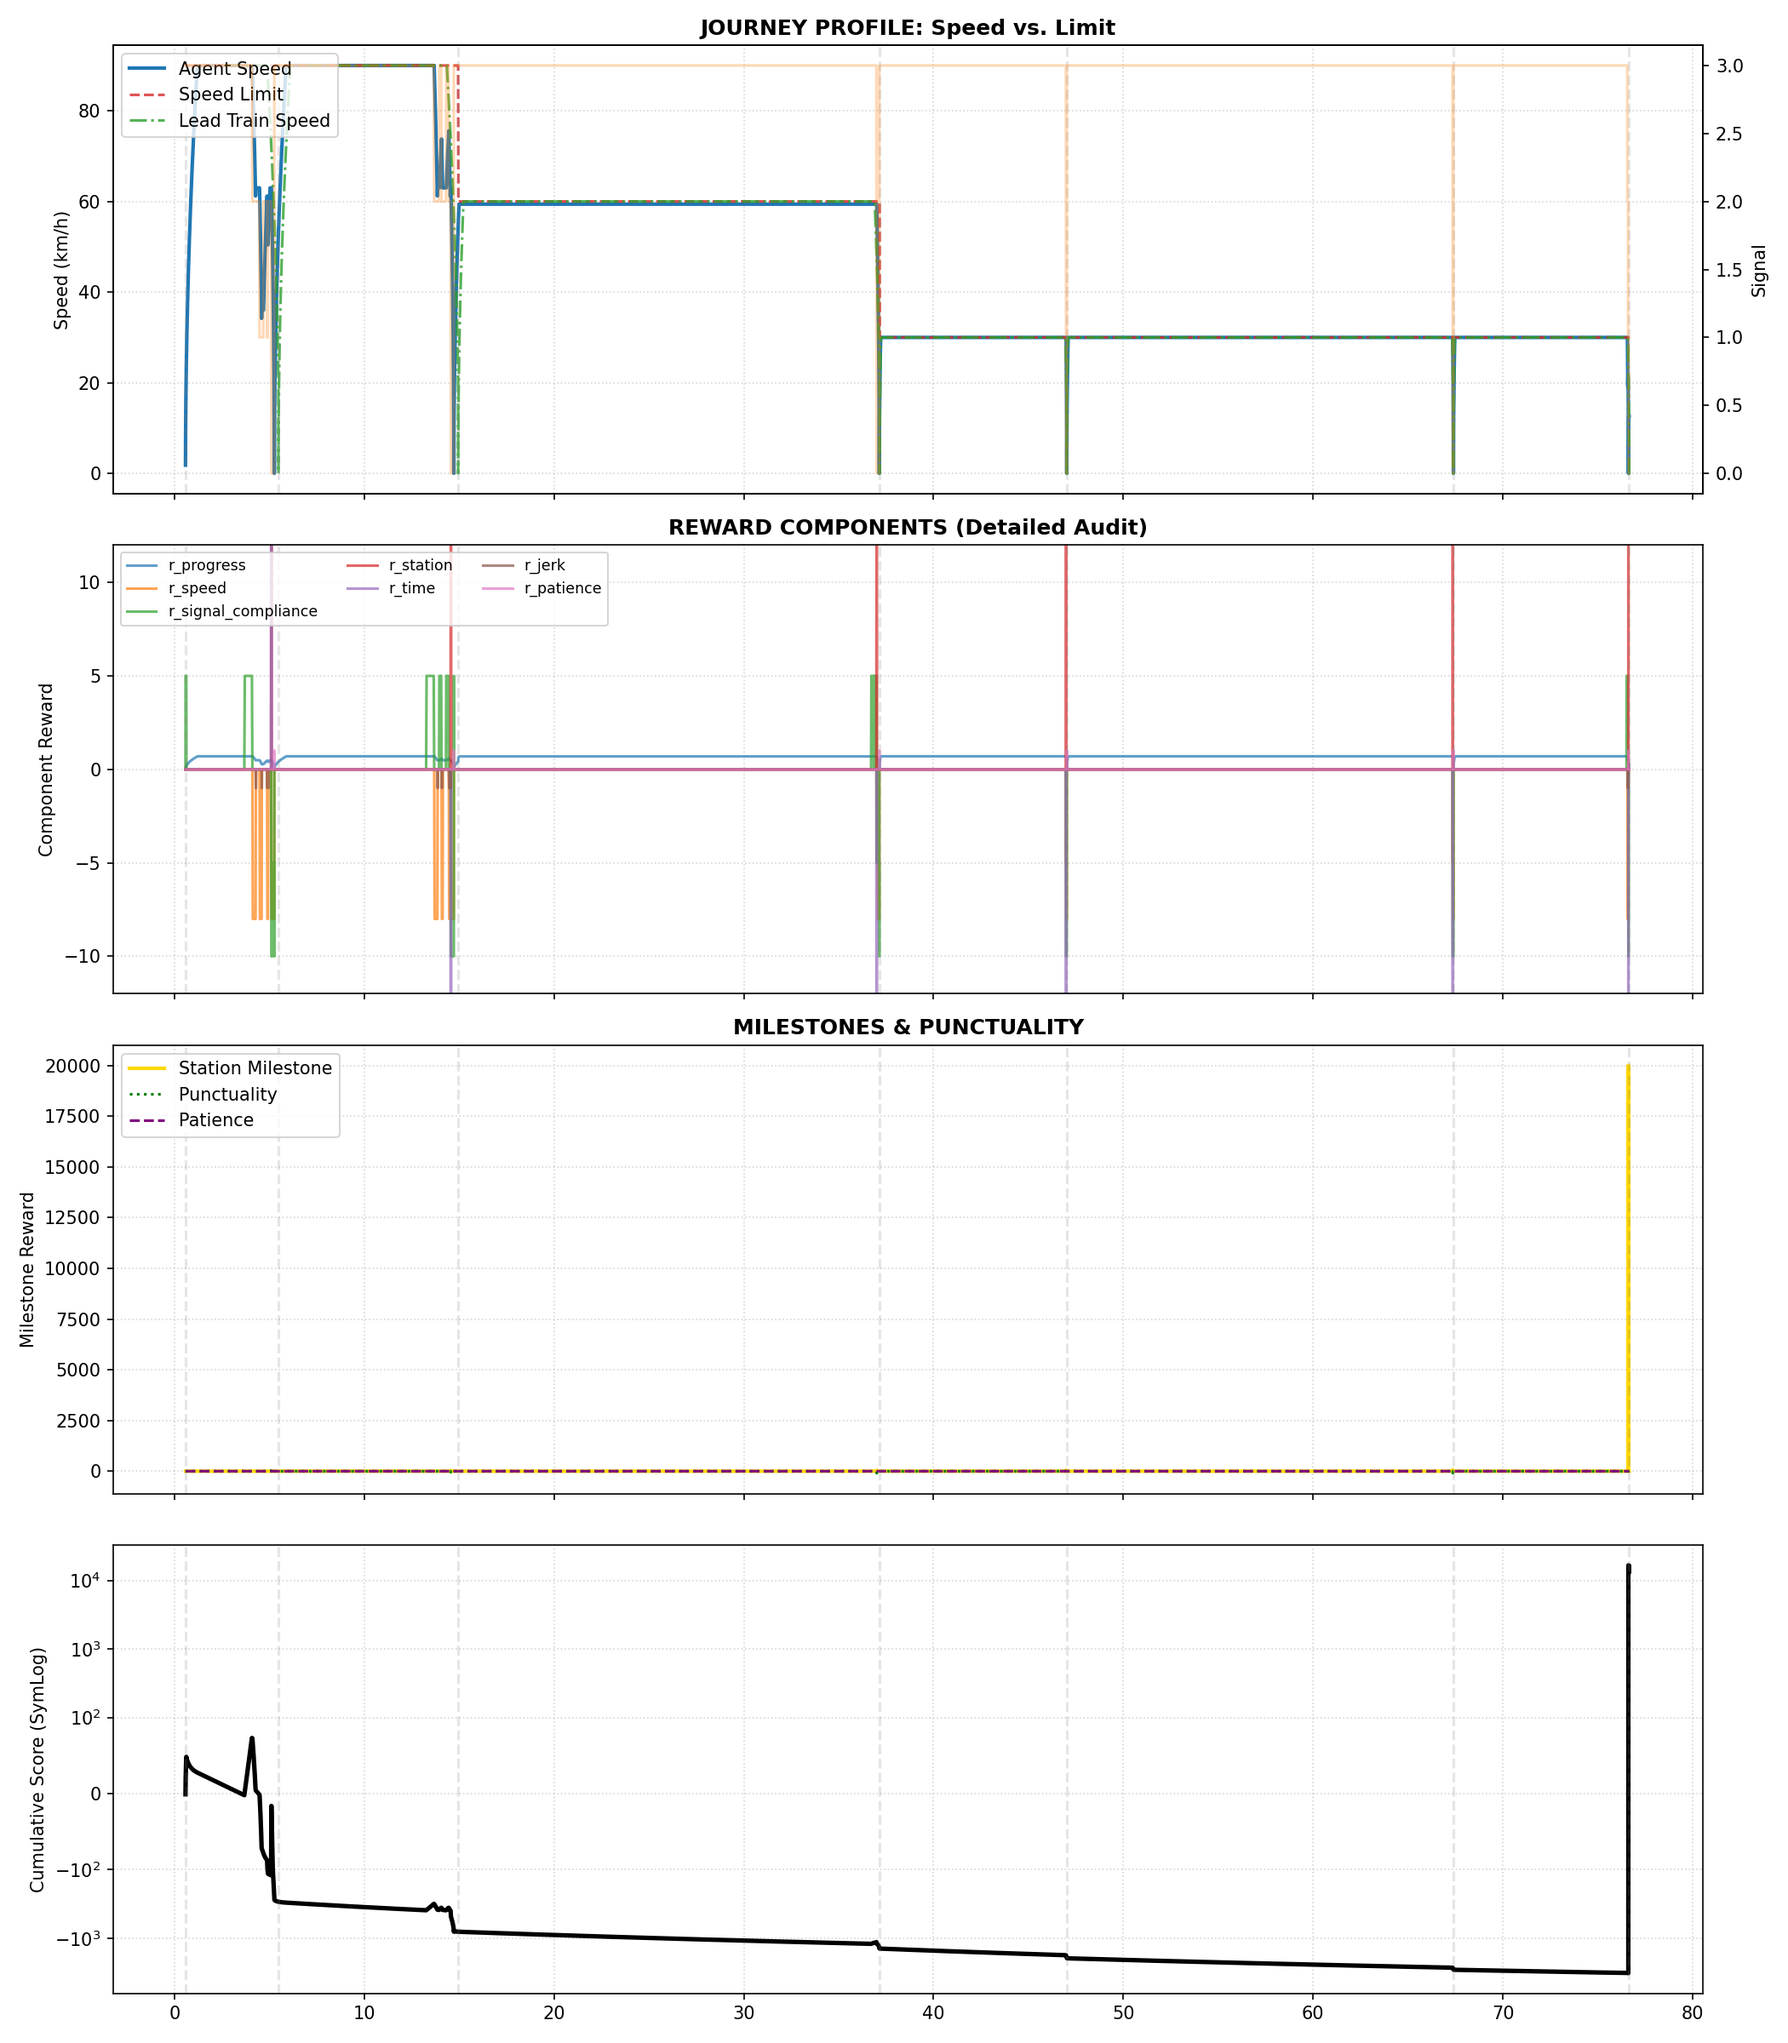
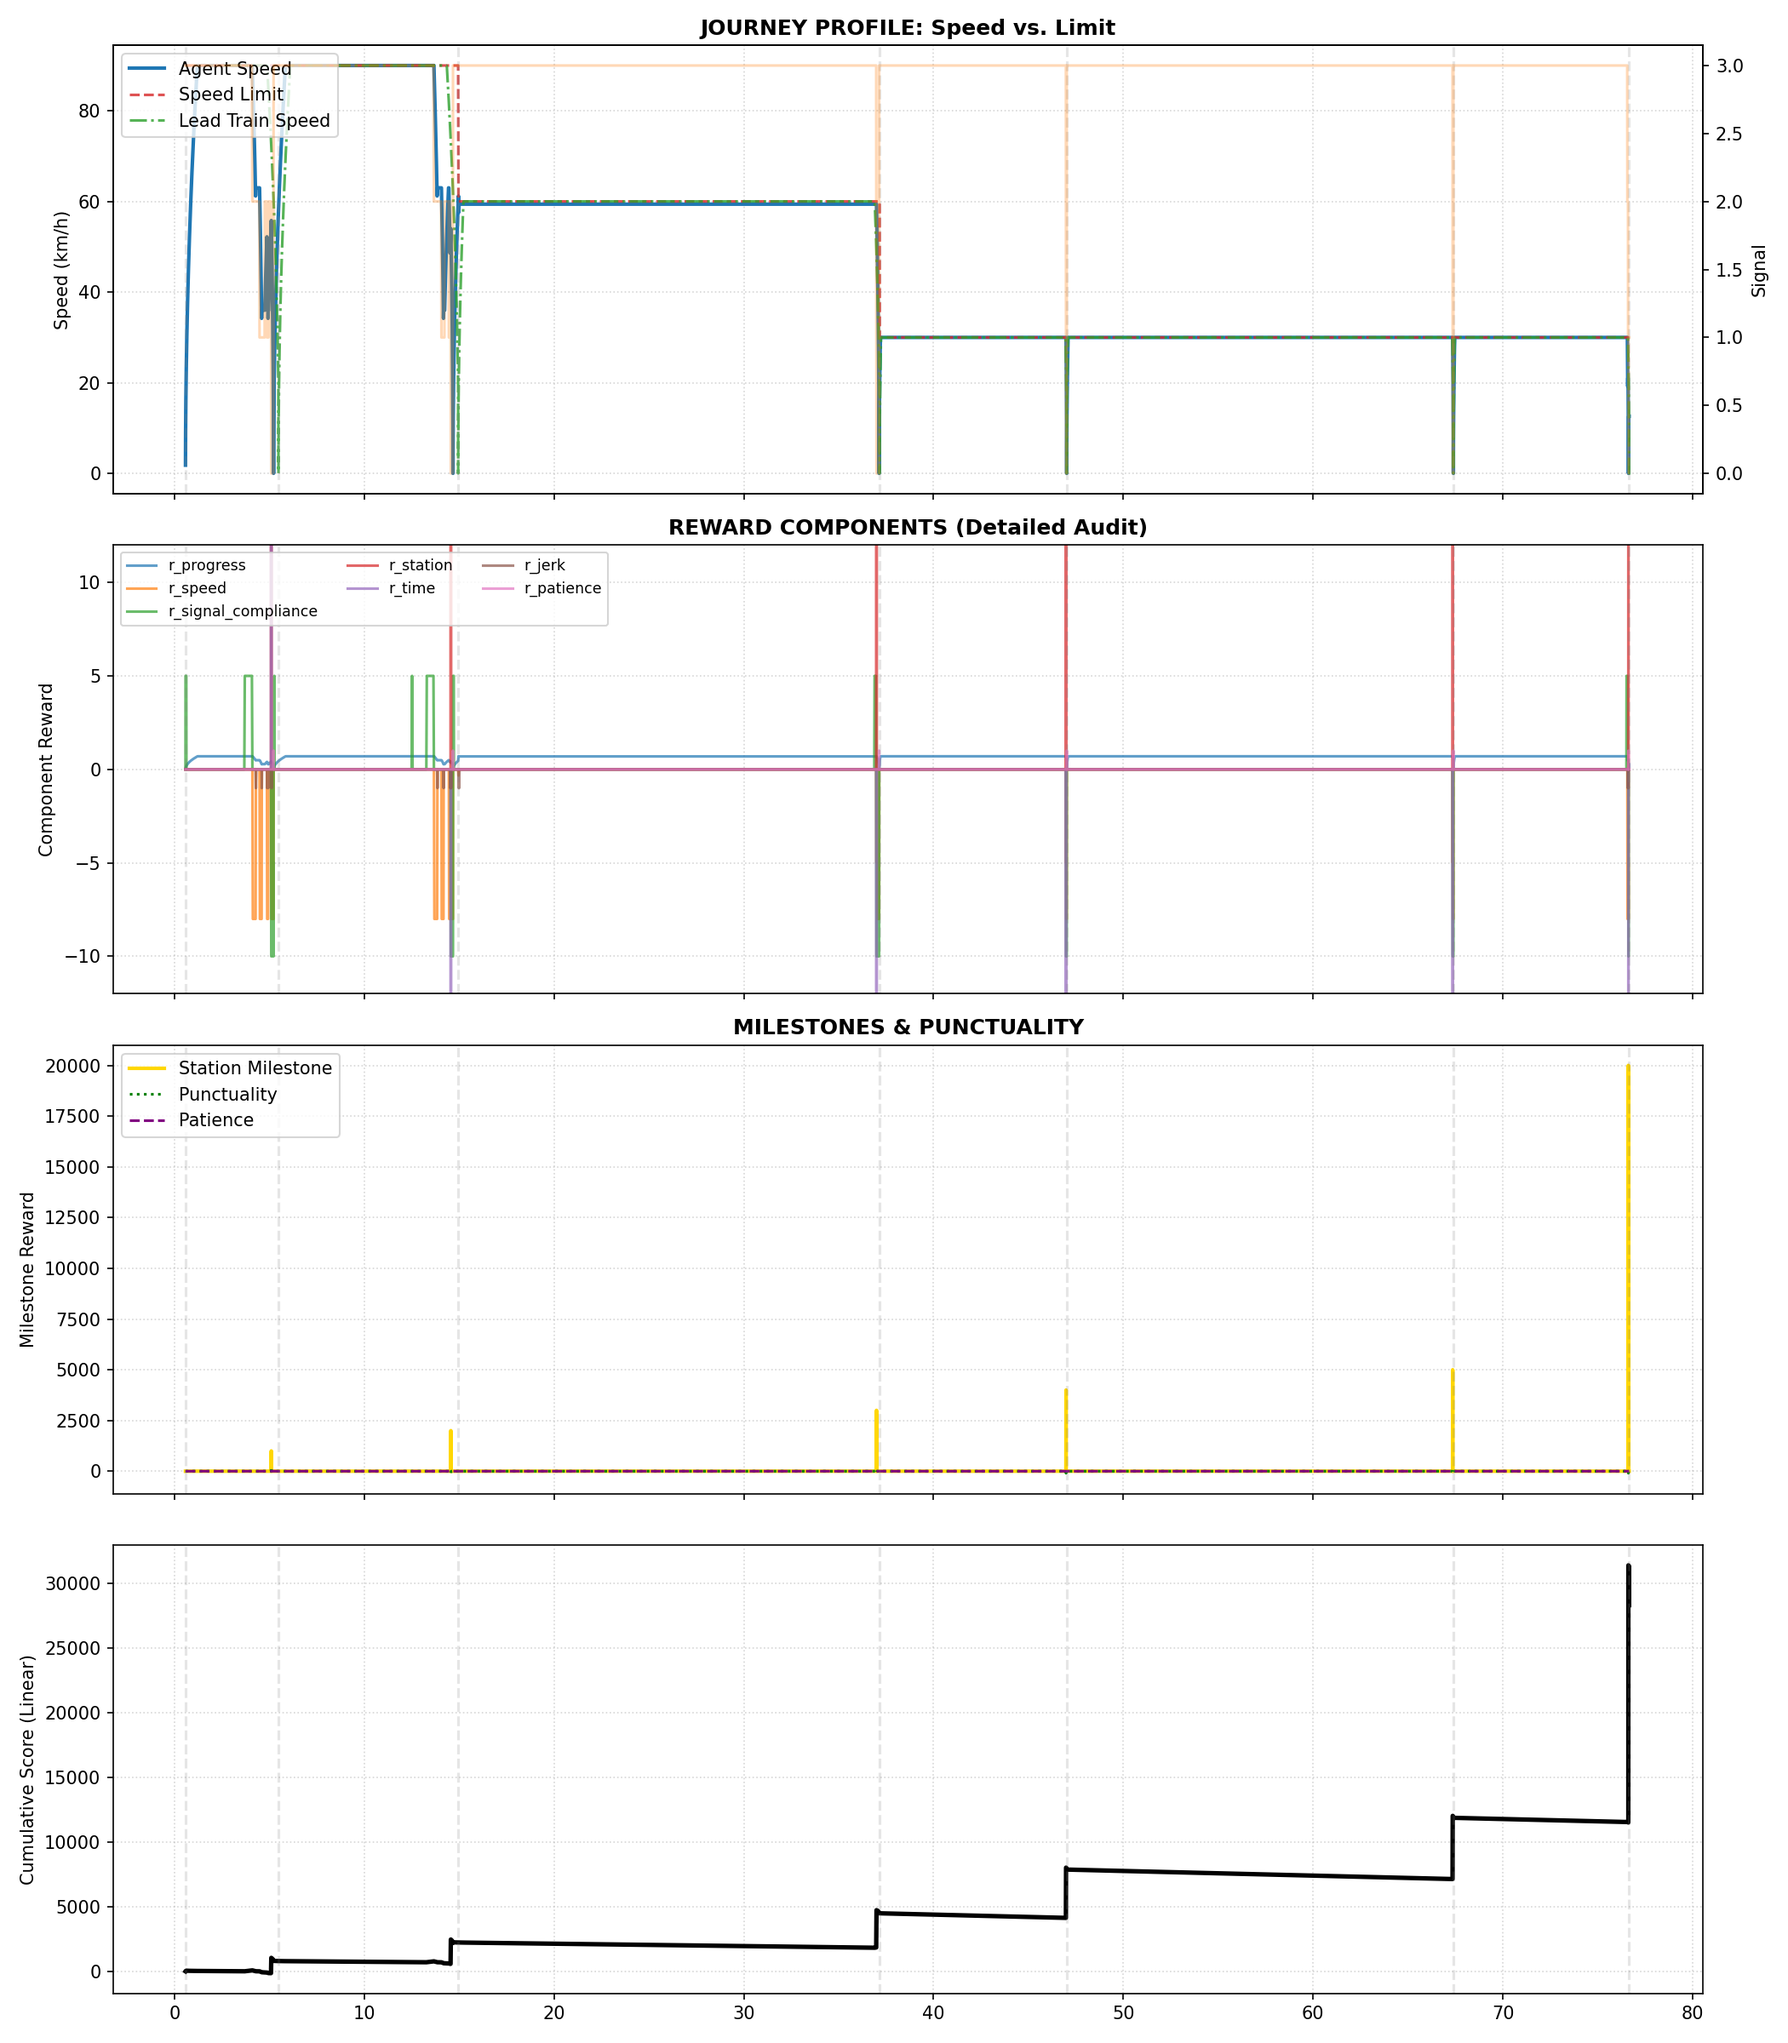
feat: update reward function parameters and refresh validation override logs

diff --git a/reward/reward_function.py b/reward/reward_function.py
@@ -72,7 +72,7 @@ def compute_reward(state: TrainState, info: Dict[str, Any]) -> RewardOutput:
     out = RewardOutput()
 
     # Step penalty — drives directed exploration toward the terminus
-    out.r_step = -1.0
+    out.r_step = -1
 
     # 1. Progress Reward
     # Scaled so that driving at the speed limit always roughly offsets the step penalty,
@@ -160,11 +160,11 @@ def compute_reward(state: TrainState, info: Dict[str, Any]) -> RewardOutput:
 
     # 7. Station Milestone Reward
     STATION_REWARDS = {
-        1: +20.0,   # Rabka-Zdrój
-        2: +30.0,   # Mszana Dolna
-        3: +40.0,   # Tymbark
-        4: +50.0,   # Limanowa
-        5: +70.0,   # Marcinkowice
+        1: +1000.0,   # Rabka-Zdrój
+        2: +2000.0,   # Mszana Dolna
+        3: +3000.0,   # Tymbark
+        4: +4000.0,   # Limanowa
+        5: +5000.0,   # Marcinkowice
         6: +20000.0,  # Nowy Sącz (terminus — maximum reward)
     }
     if state.reached_new_station:
@@ -175,7 +175,7 @@ def compute_reward(state: TrainState, info: Dict[str, Any]) -> RewardOutput:
         if state.scheduled_arrival_time is not None and state.actual_arrival_time is not None:
             deviation = abs(state.scheduled_arrival_time - state.actual_arrival_time)
             if deviation <= 60.0:
-                out.r_time = 100.0
+                out.r_time = 200.0
             else:
                 out.r_time = -100.0
     
